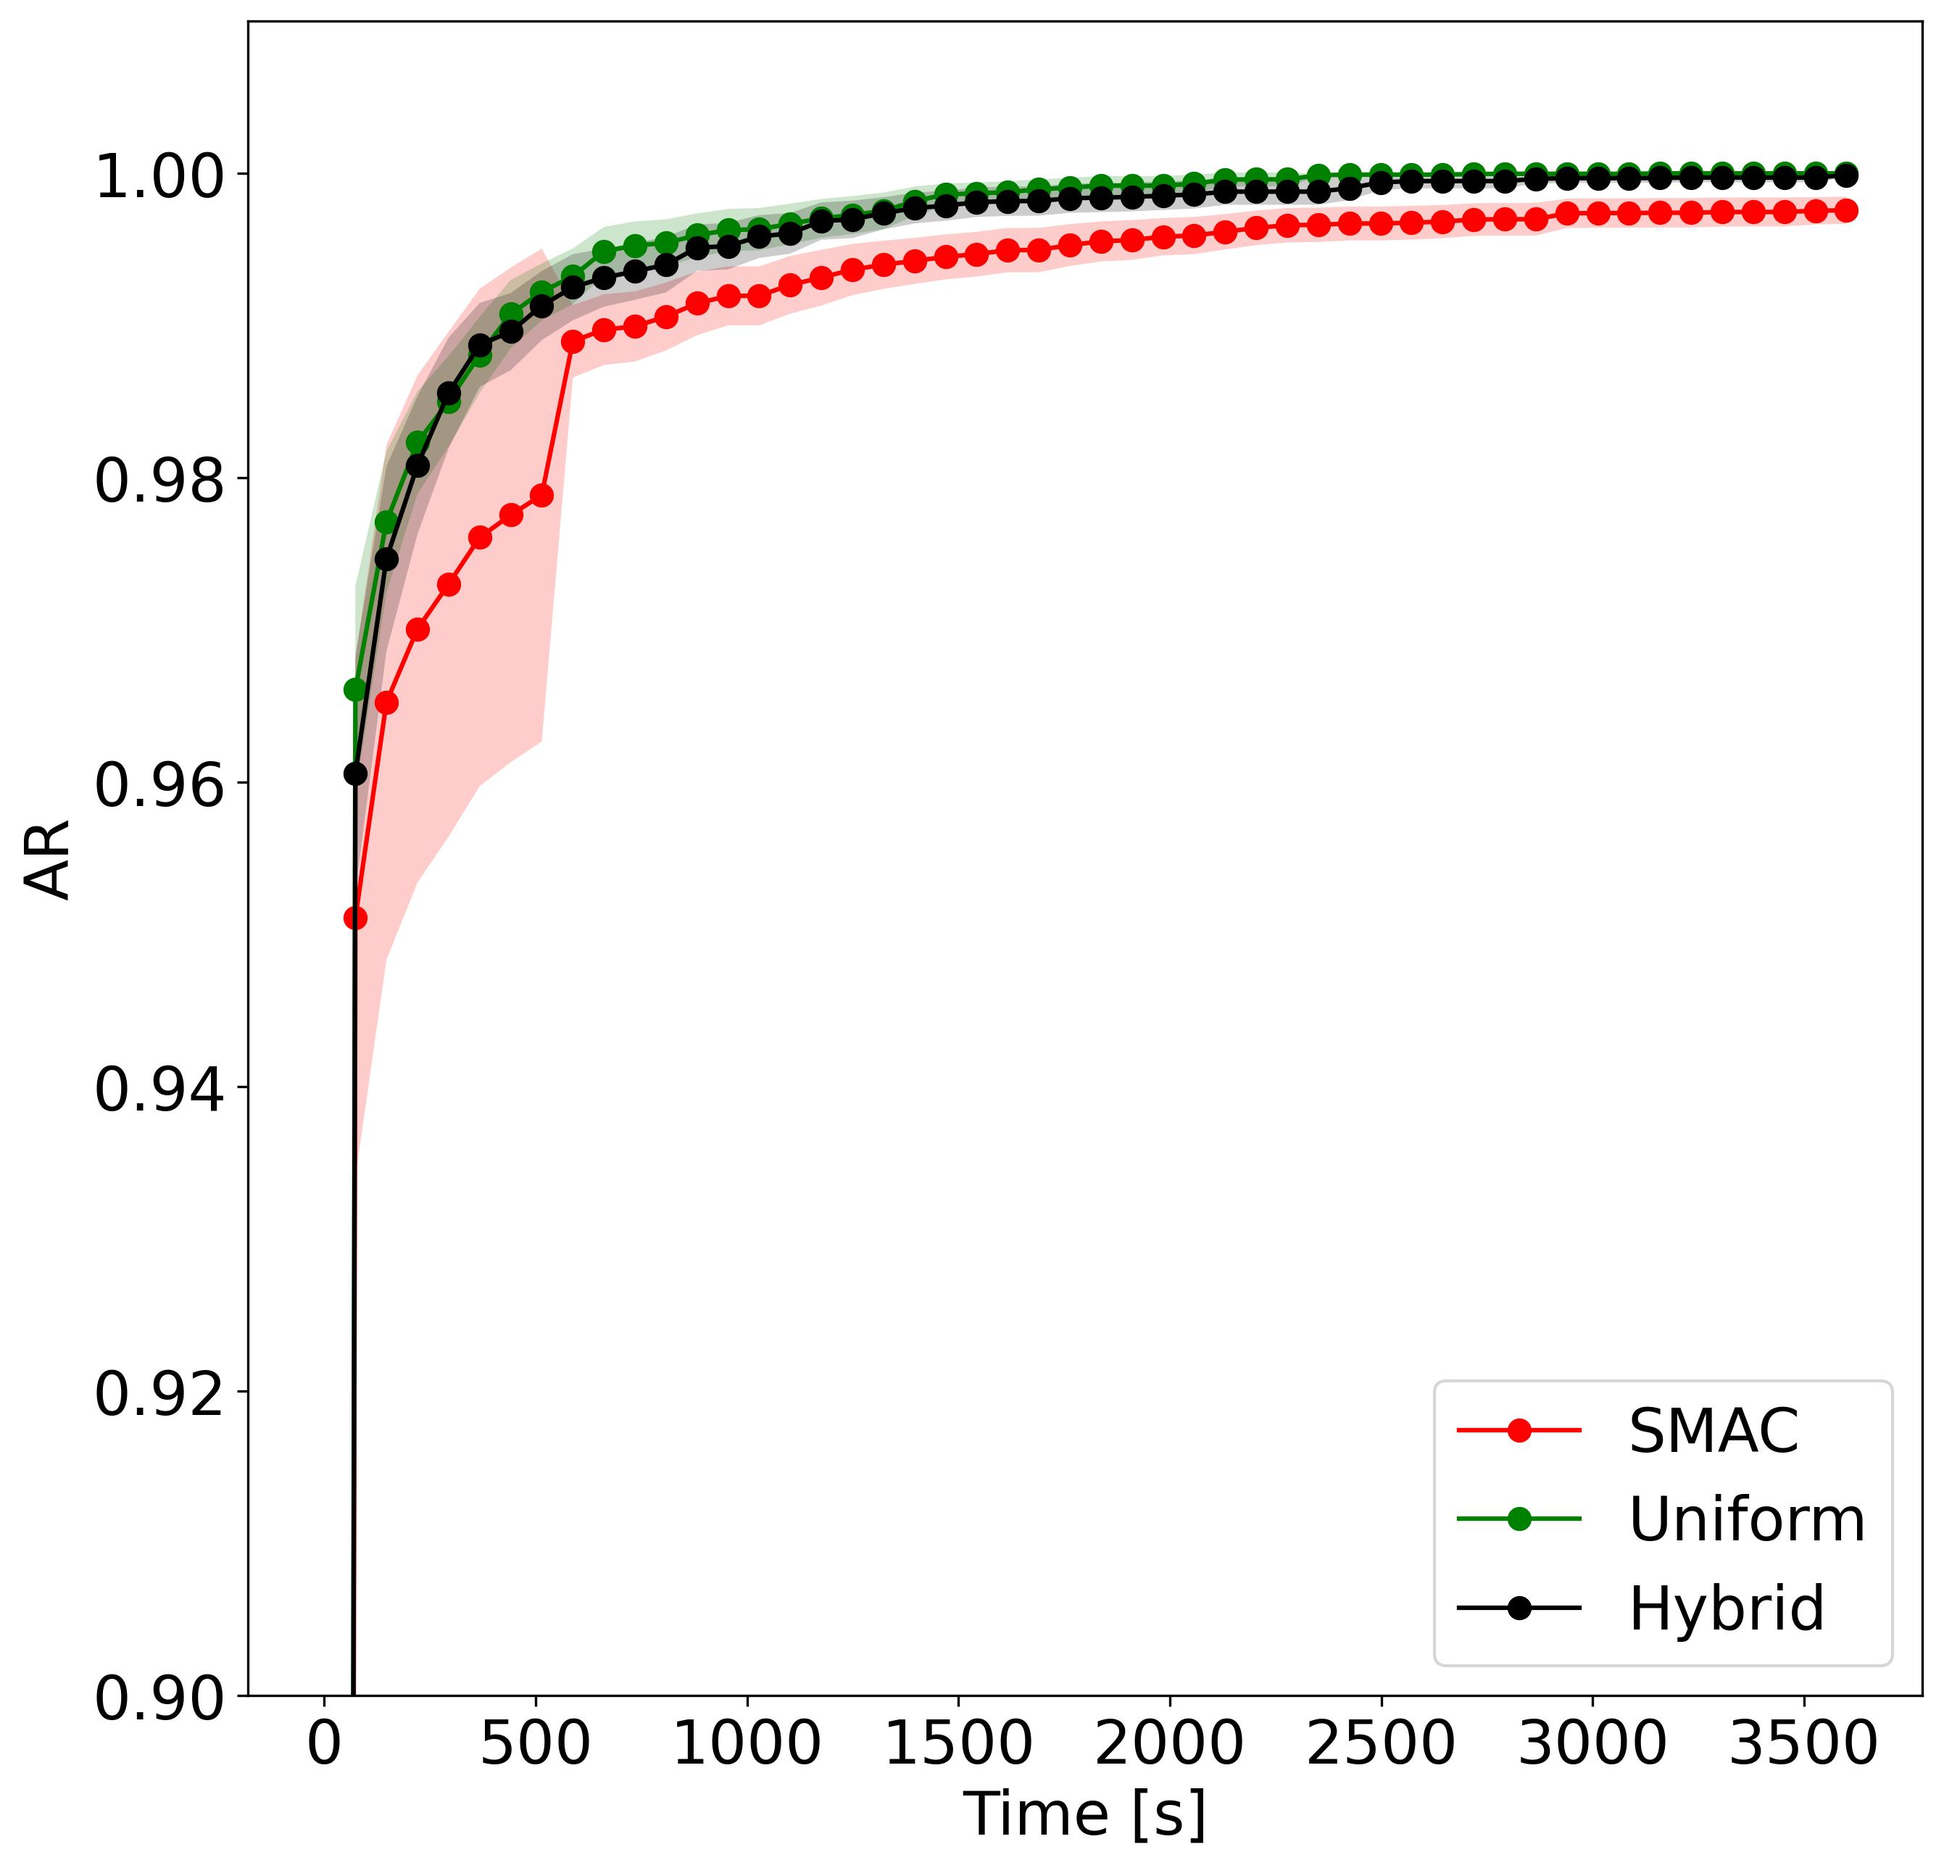
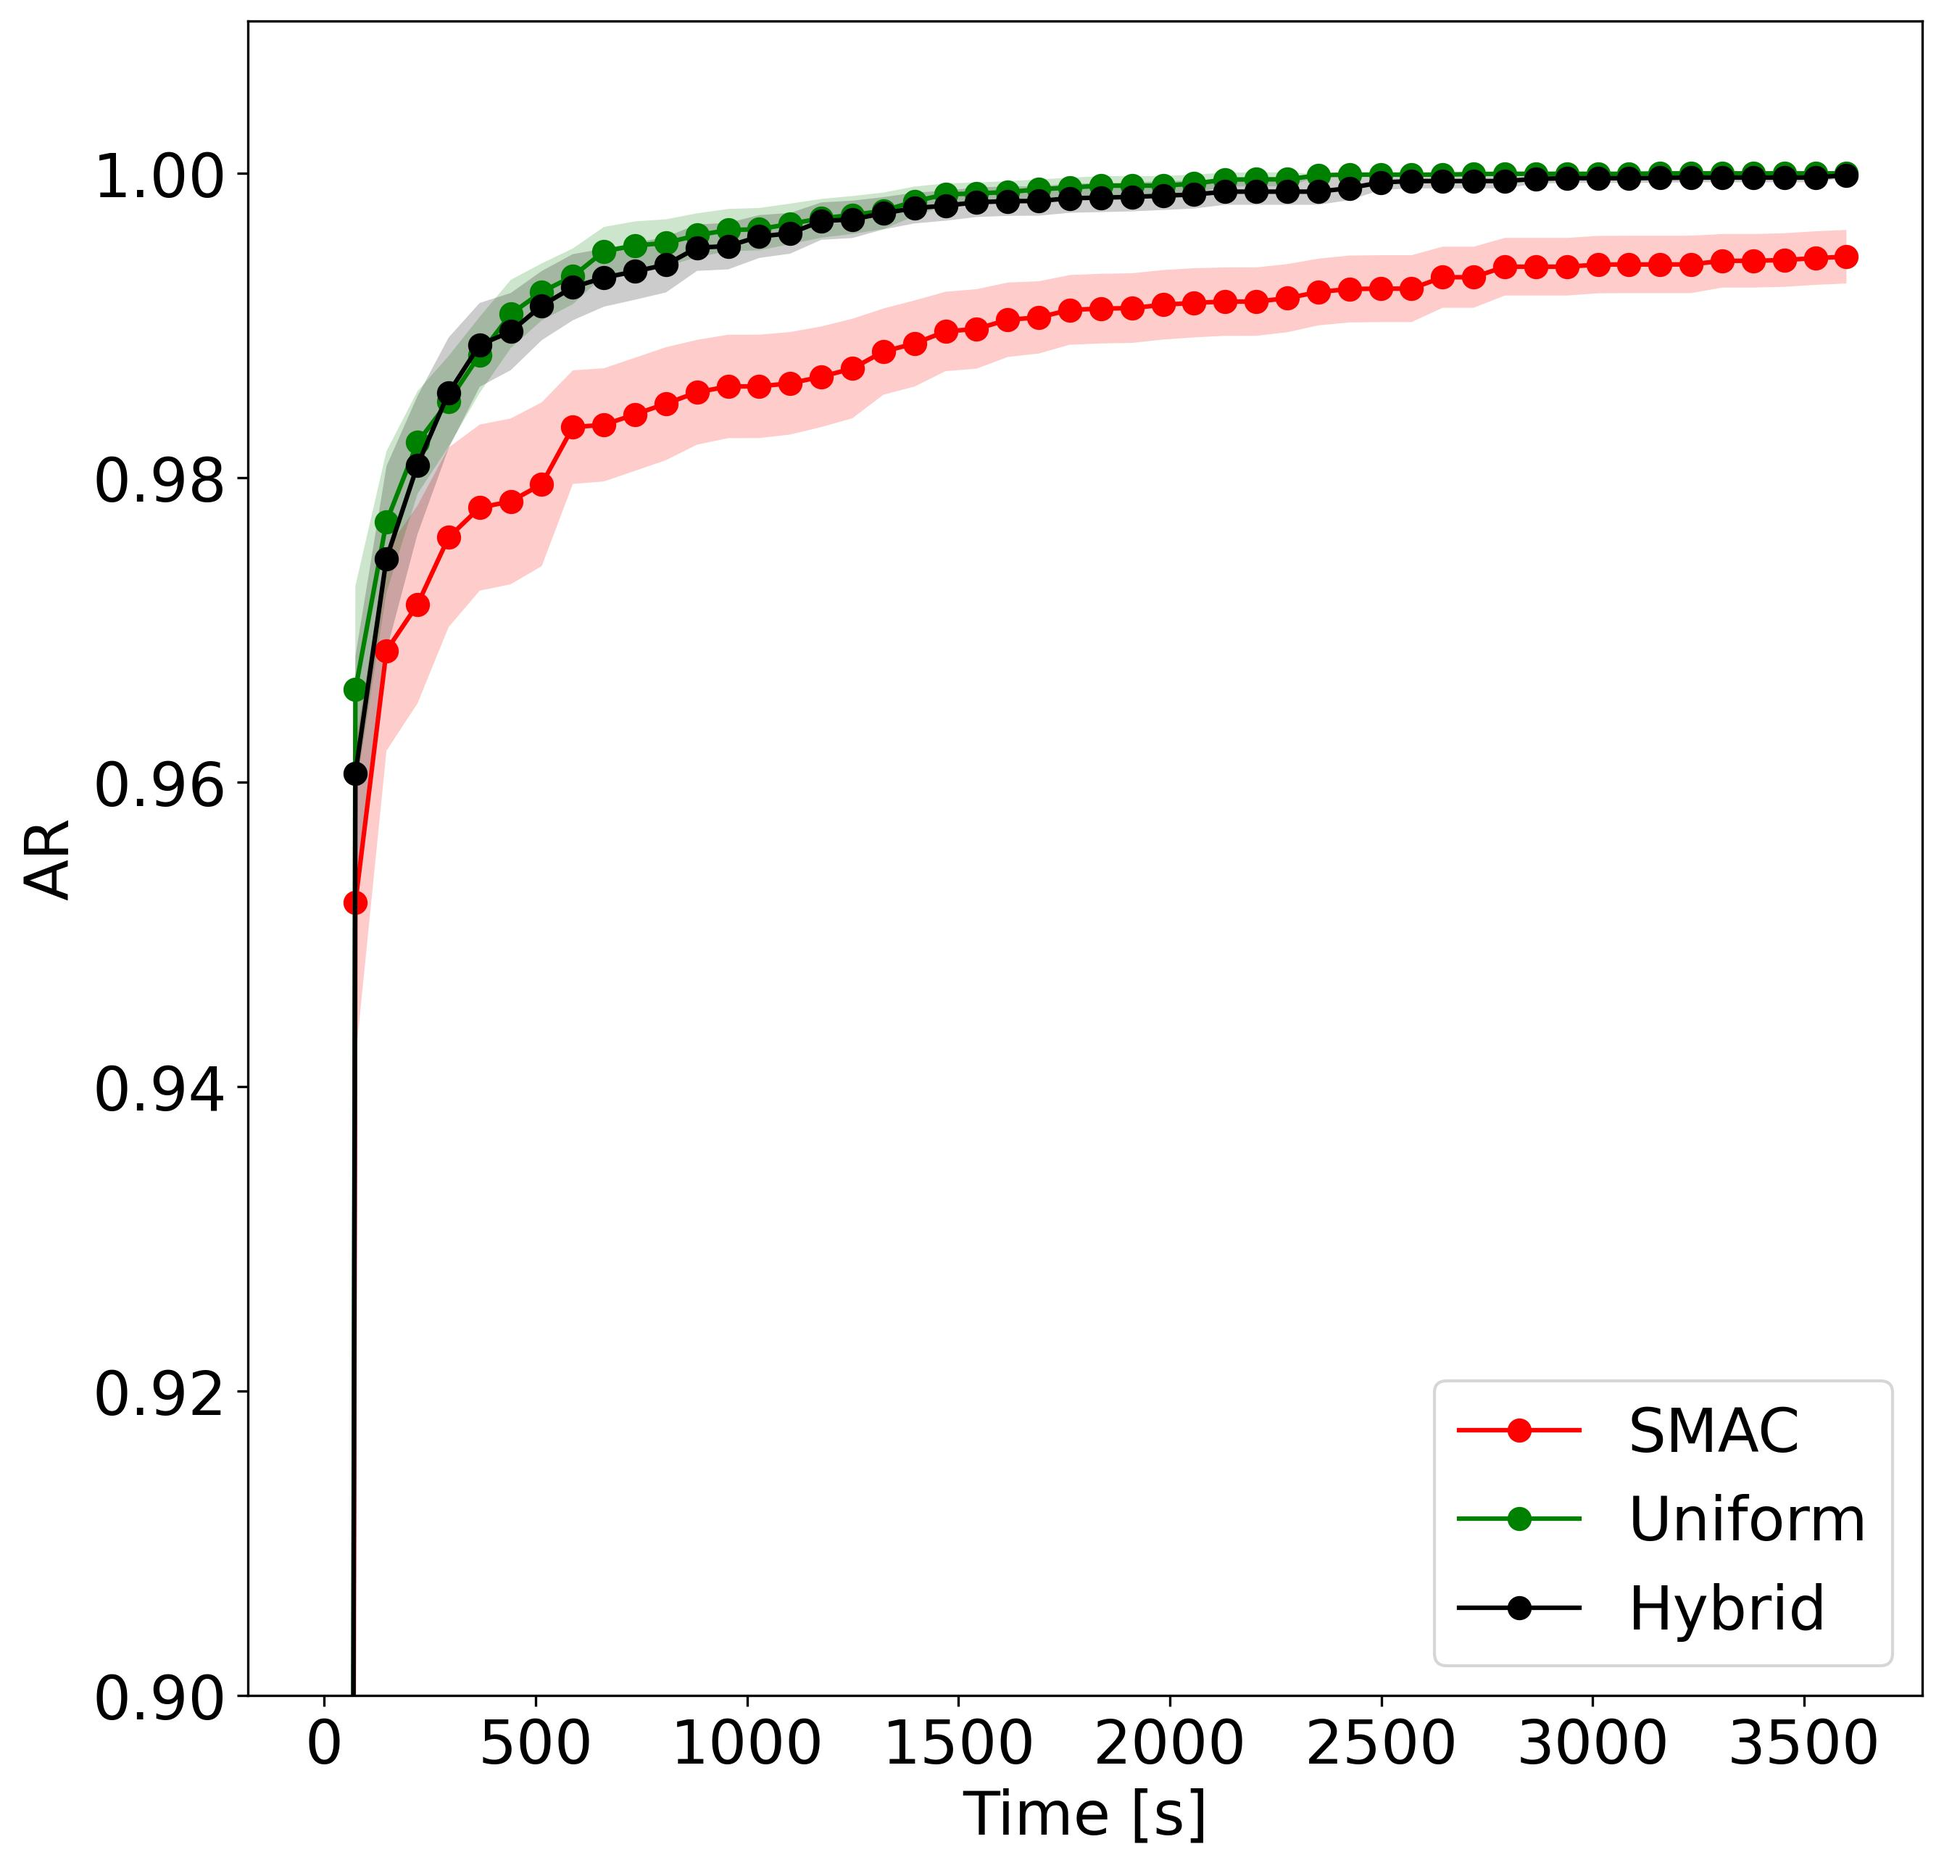
Updates ar vs time 13 gen plot

Changed region(s): [[0.1547, 0.0931, 0.9594, 0.5898]]

diff --git a/plots/power_grid_opt.py b/plots/power_grid_opt.py
@@ -294,9 +294,9 @@ if __name__ == "__main__":
     # plot_instance_objective_histories()
     # plot_average_histories()
     # plot_ar_vs_time_5()
-    # plot_ar_vs_time_13()
+    plot_ar_vs_time_13()
     # plot_history_diff_all()
-    plot_ar_vs_instance_all()
+    # plot_ar_vs_instance_all()
     # plot_ar_diff_vs_instance()
     # plot_mean_max_shots_vs_generators()
     plt.show()
